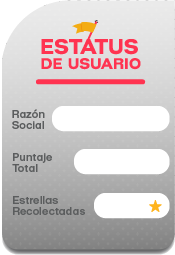
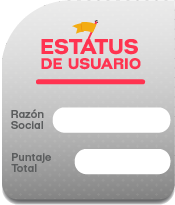
actualizando mapa noche

diff --git a/assets/mapa/css/estJuego.css b/assets/mapa/css/estJuego.css
@@ -819,8 +819,8 @@
   left : 1175px;
   top : 270px;
   width : 178px;
-  height : 256px; 
-  background:url(../images/UI/statusPlayer.svg) no-repeat;
+  height : 205px; 
+  background:url(../images/UI/statusPlayer.png) no-repeat;
 }
 #i4avatar{
     position: absolute;
@@ -861,6 +861,77 @@
     width: 100px;
     font-size: 22px; 
 }
+.anim1{
+  position : absolute ;
+  left : 480px;
+  top : 397px;
+  width: 100px;
+  height: 80px;
+  background:url(../images/UI/a1.png) no-repeat;
+  -webkit-animation:  opacAnim 1s infinite; /* Safari 4+ */
+  -moz-animation:     opacAnim 1s infinite; /* Fx 5+ */
+  -o-animation:       opacAnim 1s infinite; /* Opera 12+ */
+  animation:          opacAnim 1s infinite; /* IE 10+, Fx 29+ */
+}
+.anim2{
+   position : absolute ;
+    left: 574px;
+    top: 398px;
+  width: 100px;
+  height: 80px; 
+  background:url(../images/UI/a2.png) no-repeat;
+  -webkit-animation:  opacAnim 1s infinite; /* Safari 4+ */
+  -moz-animation:     opacAnim 1s infinite; /* Fx 5+ */
+  -o-animation:       opacAnim 1s infinite; /* Opera 12+ */
+  animation:          opacAnim 1s infinite; /* IE 10+, Fx 29+ */
+}
+.anim3{
+   position : absolute ;
+    left: 666px;
+    top: 398px;
+  width: 100px;
+  height: 80px; 
+  background:url(../images/UI/a3.png) no-repeat;
+  -webkit-animation:  opacAnim 1s infinite; /* Safari 4+ */
+  -moz-animation:     opacAnim 1s infinite; /* Fx 5+ */
+  -o-animation:       opacAnim 1s infinite; /* Opera 12+ */
+  animation:          opacAnim 1s infinite; /* IE 10+, Fx 29+ */
+}
+.anim4{
+   position : absolute ;
+    left: 758px;
+    top: 397px;
+  width: 100px;
+  height: 80px;
+  background:url(../images/UI/a4.png) no-repeat;
+  -webkit-animation:  opacAnim 1s infinite; /* Safari 4+ */
+  -moz-animation:     opacAnim 1s infinite; /* Fx 5+ */
+  -o-animation:       opacAnim 1s infinite; /* Opera 12+ */
+  animation:          opacAnim 1s infinite; /* IE 10+, Fx 29+ */
+}
+
+@-webkit-keyframes opacAnim {
+  0%   { opacity: 0; }
+  50%   { opacity: 1; }
+  100% { opacity: 0; }
+}
+@-moz-keyframes opacAnim {
+  0%   { opacity: 0; }
+  50%   { opacity: 1; }
+  100% { opacity: 0; }
+}
+@-o-keyframes opacAnim {
+  0%   { opacity: 0; }
+  50%   { opacity: 1; }
+  100% { opacity: 0; }
+}
+@keyframes opacAnim {
+  0%   { opacity: 0; }
+  50%   { opacity: 1; }
+  100% { opacity: 0; }
+}
+
+
 #i4Estrellas{ 
     left: 94px;
     top: 182px;

diff --git a/assets/mapa/js/inicio.js b/assets/mapa/js/inicio.js
@@ -114,8 +114,8 @@ function initBotones() {
     });
 
     function InitMap() {
-        stopBGMusic();
-        stopTexto();
+        //stopBGMusic();
+        //stopTexto();
         playSound(window.audioCatch);
         $('.instrucciones').stop().fadeOut(1000);
         $J[1].showJuego();
@@ -240,23 +240,24 @@ function initJuegos() {
     $pared = $('body').data('pared');   
 }
 function showInicio() {
-    playBGMusic(window.BGIntro);
-    playTexto(window.txti1);
+    //playBGMusic(window.BGIntro);
+    //playTexto(window.txti1);
     redimensionarJuego();
     $('.instrucciones').stop().hide();
 
     var fw = parseInt($('body').data('firstwindow'), 10);
 
-    playBGMusic(window.menuBG);    
     if (fw == 4) {
+        playBGMusic(window.BGJuego);    
        $J[1].showJuego();
     }else{
+        playBGMusic(window.BGIntro);
         $('#instrucciones_1').fadeIn(1000);
-    setTimeout(function () {
-        $(".instrucciones").stop().delay(300).fadeOut(100);
-        $("#instrucciones_2").stop().fadeIn(500);
-        playTexto(window.txti2);
-    }, 3000);
+        setTimeout(function () {
+            $(".instrucciones").stop().delay(300).fadeOut(100);
+            $("#instrucciones_2").stop().fadeIn(500);
+            playTexto(window.txti2);
+        }, 3000);
     }
 
     if($pared == 1){

diff --git a/assets/main/css/estGeneral.css b/assets/main/css/estGeneral.css
@@ -203,8 +203,8 @@ body{
 .av-planta #i4avatar_F{ background-image: url(../images/i4avPF.png); }
 .av-restaurante #i4avatar_M{ background-image: url(../images/i4avRM.png); }
 .av-restaurante #i4avatar_F{ background-image: url(../images/i4avRF.png); }
-.av-driver #i4avatar_M{ background-image: url(../images/i4avRM.png); }
-.av-driver #i4avatar_F{ background-image: url(../images/i4avRF.png); }
+.av-driver #i4avatar_M{ background-image: url(../images/i4avDM.png); }
+.av-driver #i4avatar_F{ background-image: url(../images/i4avDF.png); }
 /*******************************  Instruccion 5  *******************************/
 #instruccion_5{ background: url(../images/bginst5.png) no-repeat center center; }
 #i5txt1{

diff --git a/assets/mapa/css/estGeneral.css b/assets/mapa/css/estGeneral.css
@@ -73,7 +73,8 @@ body{
     color: #FFFFFF;
     position: absolute;
     left: 349px;
-    top: 310px;
+    top: 297px;
+    text-align: center;
     width: 512px;
     height: 220px;
 }

diff --git a/application/views/mapa.php b/application/views/mapa.php
@@ -40,9 +40,9 @@
             <div id="instrucciones_1" class="instrucciones"></div>
             <div id="instrucciones_2" class="instrucciones">
                 <!-- <div id="bg_2"></div> -->
-                <div id="welcome_2">Hola soy Zoila Prevención, te doy la bienvenida a Prevencity, nuestra ciudad segura donde aprenderás como prevenir accidentes de trabajo, estaré acompañándote durante tu recorrido en la ciudad dándote algunos TIPS!.
+                <div id="welcome_2">Hola soy Zoila Prevención, te doy la bienvenida a Prevencity, nuestra ciudad segura donde aprenderás como prevenir accidentes de trabajo, estaré acompañándote durante tu recorrido en la ciudad dándote algunos TIPS!.<br>
 
-En Prevencity encontrarás diversos lugares donde podrás ingresar, aprender y al finalizar cada curso o misión pondrás a prueba todo lo aprendido pasando un reto.
+En Prevencity encontrarás diversos lugares donde podrás ingresar, aprender y al finalizar cada curso o misión pondrás a prueba todo lo aprendido pasando un reto.<br>
 
 No te pierdas ninguno de las misiones, ya que muchas de ellos podrán llevarte a formar parte del <strong>Programa de Certificación de Prevención de riesgos de acuerdo a tu puesto de trabajo.</strong>
 </div>
@@ -178,7 +178,7 @@ No te pierdas ninguno de las misiones, ya que muchas de ellos podrán llevarte a
                 <div id="botBar">
                     <div id="i4RazonSocial" class="i4txt"><?php echo $empresa; ?></div>
                     <div id="i4Puntaje" class="i4txt"><?php echo $user_stats['puntaje']; ?></div>
-                    <div id="i4Estrellas" class="i4txt"><?php echo $user_stats['estrellas']; ?></div>                    
+                    <!-- <div id="i4Estrellas" class="i4txt"><?php echo $user_stats['estrellas']; ?></div> -->                    
                 </div>
                 <div id="centerBar"></div>
             </div>
@@ -224,7 +224,11 @@ No te pierdas ninguno de las misiones, ya que muchas de ellos podrán llevarte a
                 </div>
 
                 <div id="popAct_3" class="caratula"> 
-                    <div class="prevencion"><p class="textCent"> </p></div>                    
+                    <div class="prevencion"><p class="textCent"> </p></div> 
+                    <div class="<?php echo $cursocheck1?>"></div>
+                    <div class="<?php echo $cursocheck2?>"></div>
+                    <div class="<?php echo $cursocheck3?>"></div>
+                    <div class="<?php echo $cursocheck4?>"></div>                   
                     <?php
                         // echo anchor('cuestionario', '&nbsp;', array('id' => 'i4Cuestionario'));
                         echo anchor('mapa/certificado_prevencion', '&nbsp;', array('id' => 'i4Certificado_p', 'class' => $certificado_prevencion, 'target' => '_blank'));
@@ -233,22 +237,16 @@ No te pierdas ninguno de las misiones, ya que muchas de ellos podrán llevarte a
                             // echo $cursocheck;                            
                             if ($maxnivel >= $i) {
                                 foreach ($niveles as $niv) {
-                                    if ($niv->id == $i && $niv->estado == 1) {
-                                        if($i == 1){
-                                            $clases = 'i4Nivel'. $cursocheck1 . '';
-                                        }else if($i == 2){
-                                            $clases = 'i4Nivel'. $cursocheck2 . '';
-                                        }else if($i == 3){
-                                            $clases = 'i4Nivel'. $cursocheck3 . '';
-                                        }else{
-                                            $clases = 'i4Nivel'. $cursocheck4 . '';
-                                        }                                        
+                                    if ($niv->id == $i && $niv->estado == 1){ 
+                                        $clases = 'i4Nivel';
                                     }
                                 }
                             }
                             echo anchor('nivel' . $i, '&nbsp;', array('id' => 'i4Nivel_' . $i, 'class' => $clases));
                         }
                     ?>
+                    
+
                     <div id="preg_3_0" class="CV_btn2 CV_btn_3 pregOpc"> </div>
                 </div>
             <!-- - - - - - - - - - - - - - - - - - - - - - - - - - - - - - - - - - - - - - - - - - - -->

diff --git a/application/controllers/Mapa.php b/application/controllers/Mapa.php
@@ -45,6 +45,17 @@ class Mapa extends Nivel_Controller {
             if (!$resul || !$resul->intentos) {
                 $this->data['pared'] = 0;
                 if($i == 1){
+                    $this->data['cursocheck1'] =  'anim1';
+                }else if($i == 2){
+                    $this->data['cursocheck2'] =  'anim2';
+                }else if($i == 3){
+                    $this->data['cursocheck3'] =  'anim3';
+                }else{
+                    $this->data['cursocheck4'] =  'anim4';
+                }                           
+            }else{
+                $this->data['pared'] = 1;
+                if($i == 1){
                     $this->data['cursocheck1'] =  '';
                 }else if($i == 2){
                     $this->data['cursocheck2'] =  '';
@@ -52,17 +63,6 @@ class Mapa extends Nivel_Controller {
                     $this->data['cursocheck3'] =  '';
                 }else{
                     $this->data['cursocheck4'] =  '';
-                }                           
-            }else{
-                $this->data['pared'] = 1;
-                if($i == 1){
-                    $this->data['cursocheck1'] =  ' anim1';
-                }else if($i == 2){
-                    $this->data['cursocheck2'] =  ' anim2';
-                }else if($i == 3){
-                    $this->data['cursocheck3'] =  ' anim3';
-                }else{
-                    $this->data['cursocheck4'] =  ' 0anim4';
                 }              
             }
         }

diff --git a/application/controllers/Ajax.php b/application/controllers/Ajax.php
@@ -271,6 +271,7 @@ class Ajax extends MY_Controller {
     }
 
     function init_calificacion() {
+        //cuando abres el curso, crea el registro o aumenta las vistas
         if ($this->session->user_id && $this->session->curso) {
             $user_id = (int) $this->session->user_id;
             $id_curso = (int) $this->session->curso;
